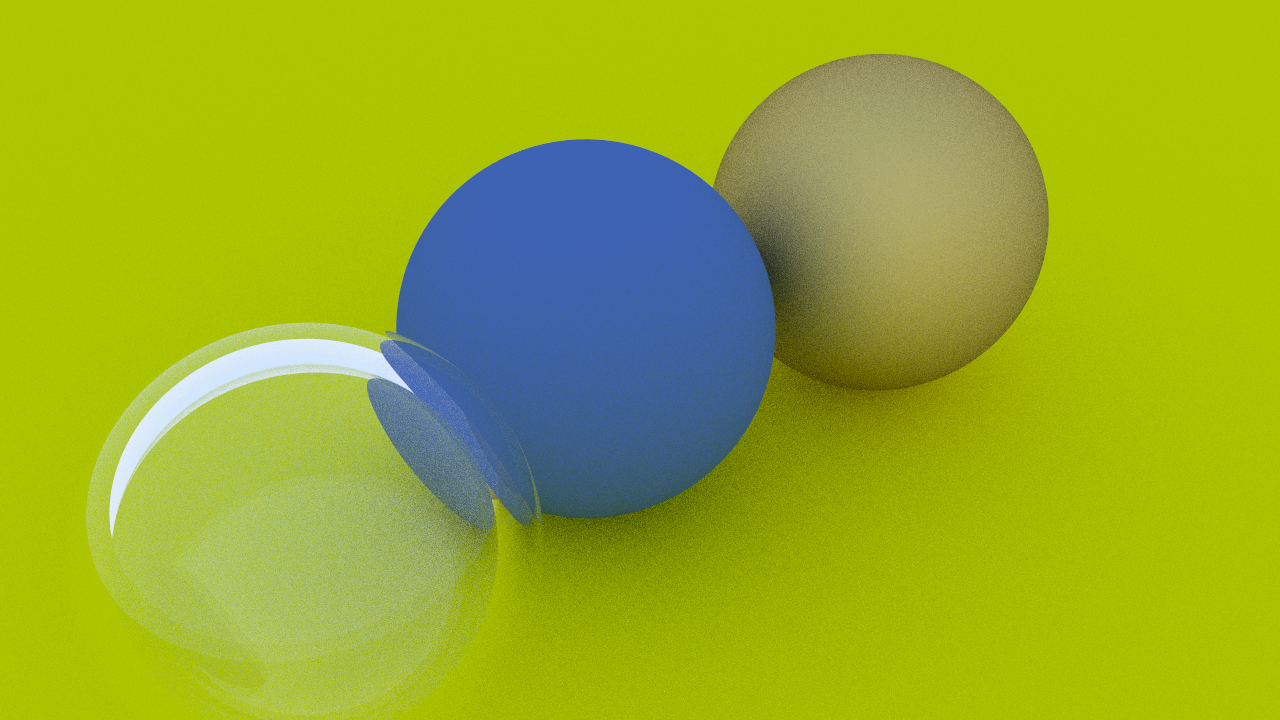
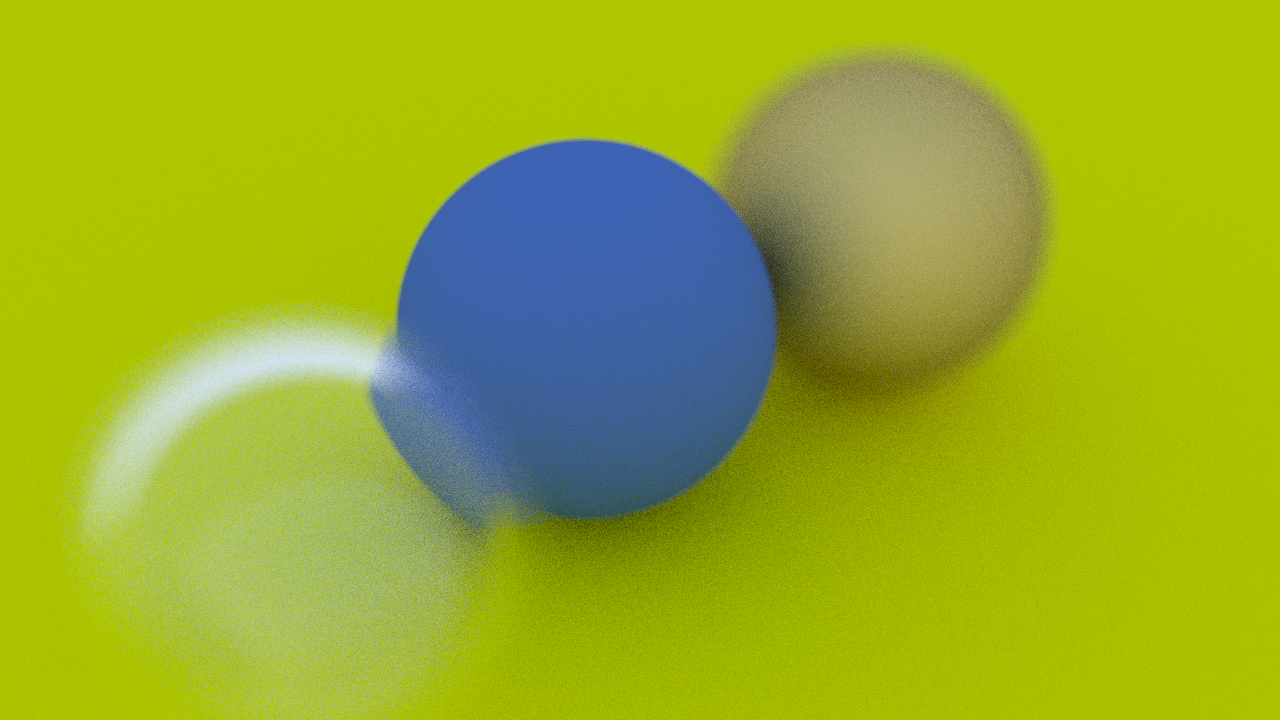
feat: defocus blur

diff --git a/src/common/camera.h b/src/common/camera.h
@@ -22,6 +22,9 @@ public:
     Vec3d lookat = {0.0, 0.0, -1.0};  // Point camera is looking at
     Vec3d vup = {0.0, 1.0, 0.0};      // Camera-relative "up" direction
 
+    double defocus_angle = 0.0; // Variation angle of rays through each pixel
+    double focus_dist = 10.0;   // Distance from camera lookfrom point to plane of perfect focus
+
     cv::Mat img; // Rendered image as cv::Mat
 
 public:
@@ -62,10 +65,12 @@ private:
     int image_height;               // Rendered image height
     double pixel_samples_scale;     // Color scale factor for a sum of pixel samples
     Vec3d center = {0.0, 0.0, 0.0}; // Camera center
+    Vec3d u, v, w;                  // Camera frame basis vectors
     Vec3d pixel_delta_u;            // Offset to pixel to the right
     Vec3d pixel_delta_v;            // Offset to pixel below
-    Vec3d u, v, w;                  // Camera frame basis vectors
     Vec3d pixel00_loc;              // Location of pixel 0, 0
+    Vec3d defocus_disk_u;           // Defocus disk horizontal radius
+    Vec3d defocus_disk_v;           // Defocus disk vertical radius
 
     void initialize() {
         image_height = std::max(int(image_width / aspect_ratio), 1);
@@ -75,10 +80,9 @@ private:
         center = lookfrom;
 
         // Determine viewport dimensions.
-        const double focal_length = (lookfrom - lookat).norm();
         const double theta = deg2rad(vfov);
         const double h = std::tan(0.5 * theta);
-        const double viewport_height = 2.0 * h * focal_length;
+        const double viewport_height = 2.0 * h * focus_dist;
         const double viewport_width = viewport_height * (double(image_width) / image_height);
 
         // Calculate the u,v,w unit basis vectors from the camera coordinate frame.
@@ -96,17 +100,23 @@ private:
 
         // Calculate the location of the upper left pixel
         const Vec3d viewport_upper_left =
-            center - (focal_length * w) - viewport_u / 2 - viewport_v / 2;
+            center - (focus_dist * w) - viewport_u / 2 - viewport_v / 2;
         pixel00_loc = viewport_upper_left + 0.5 * (pixel_delta_u + pixel_delta_v);
+
+        // Calculate the camera focus disk basis vectors.
+        const double defocus_radius = focus_dist * std::tan(deg2rad(0.5 * defocus_angle));
+        defocus_disk_u = u * defocus_radius;
+        defocus_disk_v = v * defocus_radius;
     }
 
     Ray get_ray(const int x, const int y) const {
-        // Construct a camera ray originating from the origin and directed at randomly
+        // Construct a camera ray originating from the defocus disk and directed at randomly
         // sampled point around the pixel location i, j
         const Vec3d offset = sample_square();
         const Vec3d pixel_sample =
             pixel00_loc + ((x + offset.x()) * pixel_delta_u) + ((y + offset.y()) * pixel_delta_v);
-        const Vec3d ray_origin = center;
+
+        const Vec3d ray_origin = (defocus_angle < 0.0) ? center : defocus_disk_sample();
         const Vec3d ray_direction = pixel_sample - ray_origin;
 
         return Ray(ray_origin, ray_direction);
@@ -115,6 +125,12 @@ private:
     Vec3d sample_square() const {
         // Returns the vector to a random point in the [-0.5,-0.5]-[+0.5,+0.5] unit square.
         return Vec3d(random_double() - 0.5, random_double() - 0.5, 0.0);
+    }
+
+    Vec3d defocus_disk_sample() const {
+        // Returns a random point in the camera focus disk.
+        const Vec3d p = random_in_init_disk();
+        return center + (p.x() * defocus_disk_u) + (p.y() * defocus_disk_v);
     }
 
     Vec3d ray_color(const Ray& ray, const int depth, const pro::proxy<Hittable>& hittable) {

diff --git a/src/common/common.h b/src/common/common.h
@@ -63,6 +63,15 @@ inline Vec3d random_on_hemisphere(const Vec3d& normal) {
     }
 }
 
+inline Vec3d random_in_init_disk() {
+    while (true) {
+        if (const Vec3d p = {random_double(-1.0, 1.0), random_double(-1.0, 1.0), 0.0};
+            p.squaredNorm() < 1.0) {
+            return p;
+        }
+    }
+}
+
 inline Vec3d reflect(const Vec3d& v, const Vec3d& n) {
     return v - 2.0 * v.dot(n) * n;
 }

diff --git a/utils/use_core.cpp b/utils/use_core.cpp
@@ -59,6 +59,9 @@ int main(int argc, const char* argv[]) {
     cam.lookat = {0.0, 0.0, -1.0};
     cam.vup = {0.0, 1.0, 0.0};
 
+    cam.defocus_angle = 10.0;
+    cam.focus_dist = 3.4;
+
     // Render
     cam.render(world_as_hittable);
 
